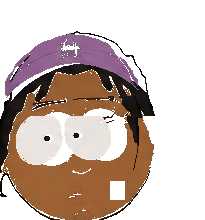
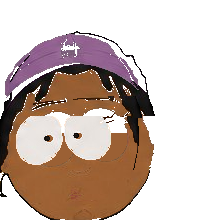
fix: repair 3 defective sheets — headband-girl cheek holes filled, red-cap white tank re-extracted, crown-hoodie pupils composited

diff --git a/production/TRIPPEDD_EP01/goodville/kits/red-cap-guy/drill-log.md b/production/TRIPPEDD_EP01/goodville/kits/red-cap-guy/drill-log.md
@@ -32,3 +32,11 @@
 - torso_base was faint outline — rebuilt: white tank via key, mirror-reconstructed occluded center (bottle prop separate).
 - prop_bottle_full.png (bottle+hand) extracted clean via rembg.
 - Variants rescaled (eyes 89,103 / mouth 89,163 / brows 90,73). Angles via feature-shift; profile from 34R.
+
+## Defect repair (2026-10-11) — blank white torso silhouettes
+- Root cause: white tank keyed out as background (white-on-white key too aggressive).
+- Fix: re-extracted from key art via luminance key (bright + low-sat, u2net dropped
+  the white tank). Kept comps 1+2 (tank body + right strap), excluded text overlay.
+  Bottle-occluded center filled with median tank color (232,221,214); bottle remains
+  separate prop. Green bottle-bleed cleaned. torso_34 = 0.85x squeeze of base;
+  torso_back = mirrored base + raised neckline. All three show the real tank now.

diff --git a/production/TRIPPEDD_EP01/goodville/kits/crown-hoodie/drill-log.md b/production/TRIPPEDD_EP01/goodville/kits/crown-hoodie/drill-log.md
@@ -38,3 +38,11 @@
 - Layers: beanie (black), hair_full (brown sideburns), donor eyes_open/pupils/brows_neutral, drawn frown mouth_closed.
 - Variants rescaled to anchors (eyes 84,121 / mouth 117,187 / brows 117,70). Angles via feature-shift; profile from 34R + nose.
 - torso_34/back added. preview_sheet.png. All verified vs key art.
+
+## Defect repair (2026-10-11) — blank white eyes (no pupils)
+- Root cause: pupils.png existed as separate donor but was never composited into
+  head angles; also the donor had a cross-eyed error (L pupil right-of-center) +
+  edge smudge artifact.
+- Fix: drew clean pupils looking LEFT (17px left of eye center, per key art) on
+  head_base/34L/34R/profile_R and eyes_open.png. Removed old pupil remnants +
+  edge smudge. All heads verified with pupils.

diff --git a/production/TRIPPEDD_EP01/goodville/kits/headband-girl/drill-log.md b/production/TRIPPEDD_EP01/goodville/kits/headband-girl/drill-log.md
@@ -34,3 +34,10 @@
 - Expression variants rescaled to donor anchors (eyes 78,140 / mouth 105,190 / brows 100,106). Pupil direction variants from donor shift.
 - Angles: head_34L/34R (feature-shift), head_profile_R (from 34R + nose).
 - Torso: torso_34 (squeeze), torso_back (purple 107,70,103 constructed). preview_sheet.png added.
+
+## Defect repair (2026-10-11) — white rectangles on cheeks
+- Root cause: head_base/34L/34R/profile_R had rectangular transparent HOLES in the
+  lower cheek (leftover mouth-socket cut, oversized vs the actual mouth).
+- Fix: filled interior transparent regions in lower face (y>0.6h) with flat skin
+  #9A6034 (sampled). Eye sockets (upper face) preserved. Mouths composite on top
+  of the now-solid head. All 4 head angles verified clean.
